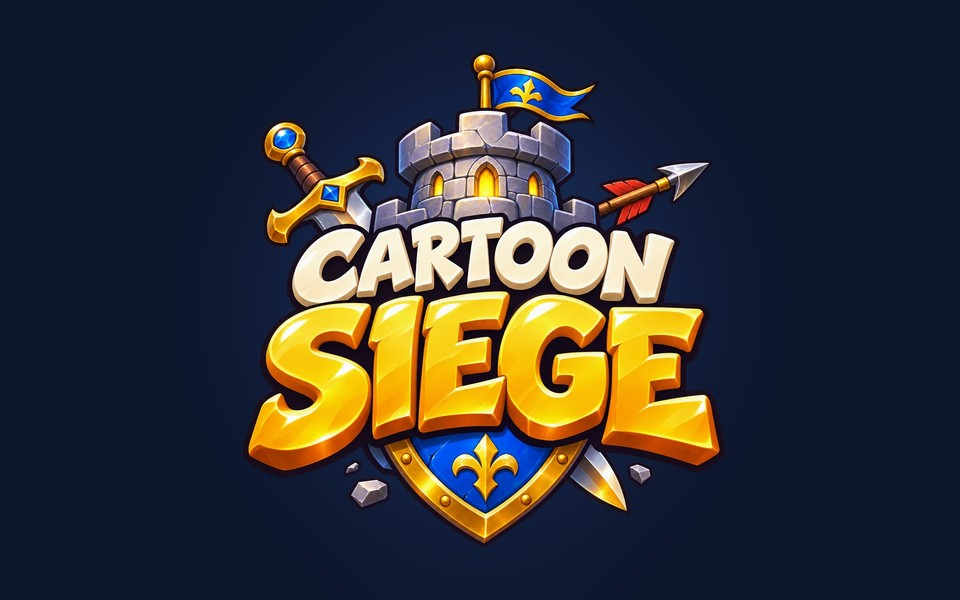
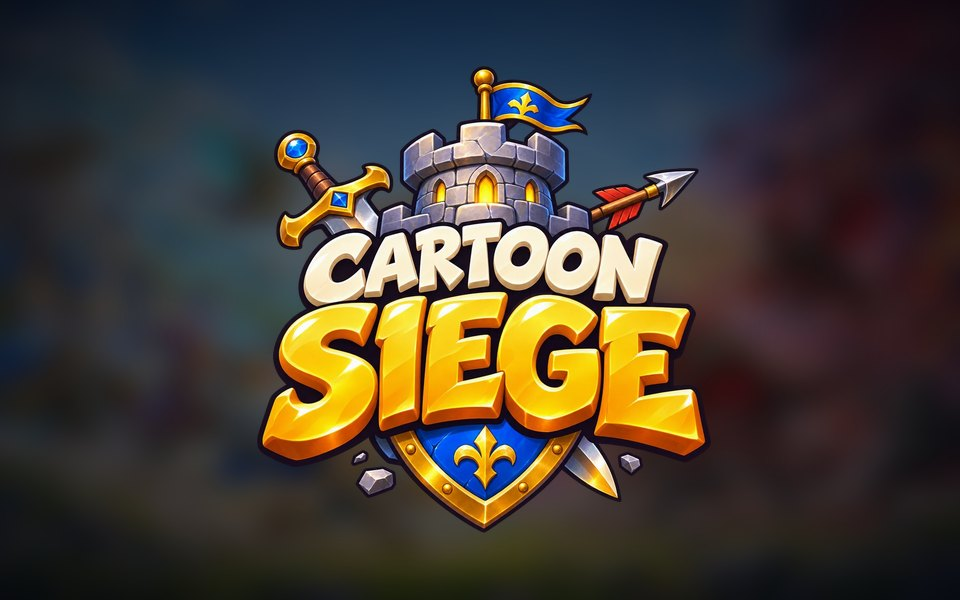
feat(work): Cartoon Siege card over its blurred cover art; Bug Hunter links to its own site

diff --git a/src/data/work.ts b/src/data/work.ts
@@ -38,7 +38,8 @@ export const PROJECTS: Project[] = [
   },
   {
     title: 'Bug Hunter',
-    href: './game.html',
+    href: 'https://bug-hunter-game.onrender.com',
+    external: true,
     summary: 'work.bugHunter',
     stack: 'TypeScript · Canvas 2D · Web Audio · PeerJS (WebRTC) · Vite',
     year: '2026',
